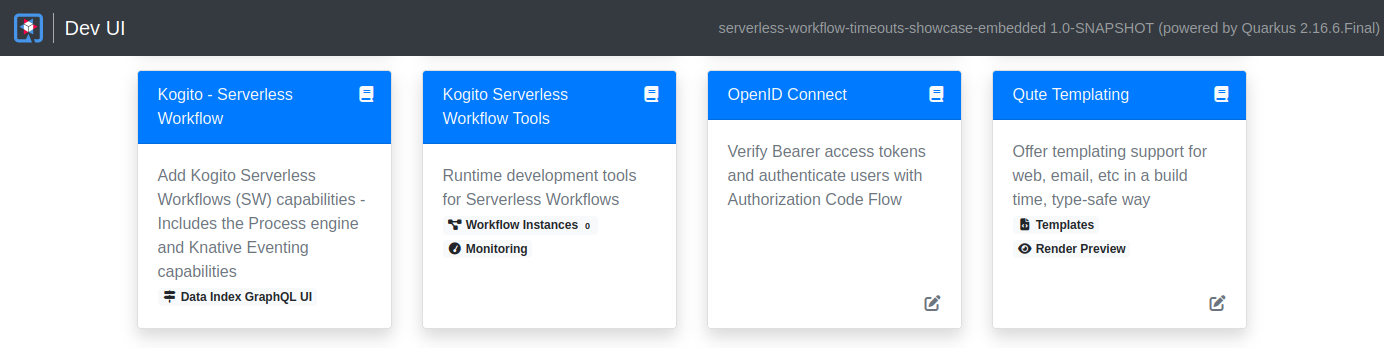
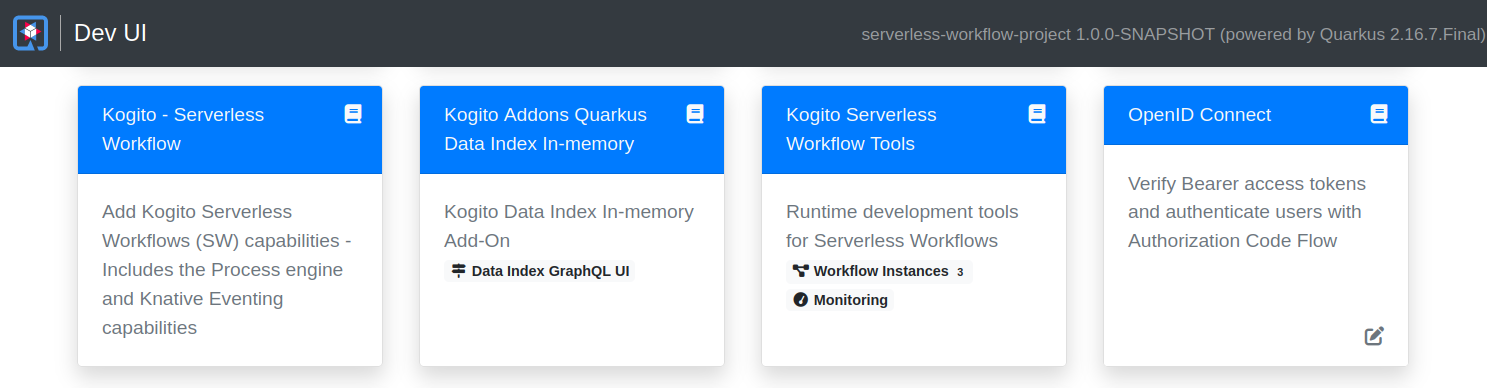
timeouts showcase operator devmode step4

diff --git a/serverless-workflow-examples/serverless-workflow-timeouts-showcase-operator-devmode/README.md b/serverless-workflow-examples/serverless-workflow-timeouts-showcase-operator-devmode/README.md
@@ -8,78 +8,103 @@
 minikube start --cpus 4 --memory 4096 --addons registry --addons metrics-server --insecure-registry "10.0.0.0/24" --insecure-registry "localhost:5000"
 ```
 
-> **NOTE:** If the number of allocated cpus, and memory configurations, don't feet well for your installation you can try to change this numbers.
+> **NOTE:** If the number of allocated cpus and memory configurations, don't feet well for your installation you can try to change this numbers.
 
-### Building the project
+3. Be sure the Kogito Serverless Operator is installed in your minikube according.
 
-Once the minikube environment is running, open a terminal window, go to the serverless-workflow-timeouts-showcase-operator-devmode directory, and execute these commands to be sure the UI generated image is stored in the minikube internal registry. 
+TODO link the SWs guides.
 
-```shell
-eval $(minikube -p minikube docker-env)
+### Deploying the workflows
 
-mvn clean package -Pkubernetes
-```
+Once the minikube environment is running, open a terminal window, go to the `serverless-workflow-timeouts-showcase-operator-devmode` directory, and execute these commands:
 
-### Create the namespace
+#### Create the namespace
 
 ```shell
 # The namespace name is very important to ensure all the services that compose the showcase can interact.
 kubectl create ns timeouts-showcase
 ```
- 
-### Timeouts showcase services deployment
 
-To deploy the example workflows you must execute these commands:
+> **NOTE:** In cases where you need to clean the deployed workflows, to start again, or simply release the 
+> resources on your minikube installation see: [Showcase cleaning](#showcase-cleaning)  
+> 
+
+#### Deploy the workflows
+
+To deploy the showcase workflows you must execute these commands:
 
 ```shell
 kubectl apply -f workflows/callback_state_timeouts_devmode.yaml -n timeouts-showcase
-
-# After executing the command you will see an output like this:
-
-TODO
 ```
 
 ```shell
 kubectl apply -f workflows/event_state_timeouts_devmode.yaml -n timeouts-showcase
-
-# After executing the command you will see an output like this:
-
-TODO
 ```
 
 ```shell
 kubectl apply -f workflows/switch_state_timeouts_devmode.yaml -n timeouts-showcase
-
-# After executing the command you will see an output like this:
-
-TODO
 ```
 
-To get the URL to access the service you can execute this command:
+After executing the commands you should have seen the following ouptputs:
+```shell
+kogitoserverlessworkflow.sw.kogito.kie.org/callbackstatetimeouts created
+kogitoserverlessworkflow.sw.kogito.kie.org/eventstatetimeouts created
+kogitoserverlessworkflow.sw.kogito.kie.org/switchstatetimeouts created
+```
+
+### Accessing the timeouts showcase workflows
+
+To get the URLs to access each workflow you must execute these commands:
 
 ```shell
-kn service list | grep timeouts-showcase-embedded
+minikube service callbackstatetimeouts -n timeouts-showcase  --url
 
-# After executing the command you will see an output like this:
-
-NAME                         URL                                                               LATEST                             AGE     CONDITIONS   READY   REASON
-timeouts-showcase-embedded   http://timeouts-showcase-embedded.default.10.98.134.49.sslip.io   timeouts-showcase-embedded-00001   5m39s   3 OK / 3     True   
+# callback_sate_timeouts url output example
+http://192.168.49.2:32750
 ```
 
-Note that the output above might be different in your installation, and the IP numbers in the URL can be different.
+```shell
+minikube service eventstatetimeouts -n timeouts-showcase  --url
 
-### Executing the `switch_state_timeouts` workflow using curl
+# event_state_timeouts url output example
+http://192.168.49.2:31191
+```
 
-To execute the following commands you must use the http://timeouts-showcase-embedded.default.10.98.134.49.sslip.io corresponding to your installation.
+```shell
+minikube service switchstatetimeouts -n timeouts-showcase  --url
+
+# switch_state_timeouts url output example
+http://192.168.49.2:31917
+```
+
+> **NOTE:** The outputs above might be different in your installation, and the IP numbers and ports can be change even when you delete and redeploy a particular workflow. 
+>
+> To facilitate the workflows executions, you can use the following command to define env variables with the corresponding urls.
+
+
+```shell
+source set-urls.sh
+
+# The execution of the script will produce an output like this:
+
+Setting workflows env variables to:
+CALLBACK_STATE_TIMEOUTS_URL=http://192.168.49.2:31917
+EVENT_STATE_TIMEOUTS_URL=http://192.168.49.2:31191
+SWITCH_STATE_TIMEOUTS_URL=http://192.168.49.2:31191
+```
+
+### Executing the workflows using curl
+
+To execute the `switch_state_timeouts` you must use the corresponding url obtained in the previous steps, or the env variable SWITCH_STATE_TIMEOUTS_URL: 
 
 Execute the following command to create a new `switch_state_timeouts` workflow instance:
 
 ```shell
-curl -X 'POST' \
-  'http://timeouts-showcase-embedded.default.10.98.134.49.sslip.io/switch_state_timeouts' \
+ curl -X 'POST' \
+   "$SWITCH_STATE_TIMEOUTS_URL" \
   -H 'accept: */*' \
   -H 'Content-Type: application/json' \
-  -d '{}'
+  -d '{}' 
 
 # The command will produce an output like this:
 
@@ -88,9 +113,9 @@ curl -X 'POST' \
 
 If you execute the following command during the first 30 seconds after the SW instance was created, you'll get the following results:
 ```shell
-curl -X 'GET' 'http://timeouts-showcase-embedded.default.10.98.134.49.sslip.io/switch_state_timeouts'
+curl -X 'GET' "$SWITCH_STATE_TIMEOUTS_URL"
 
-# The command will produce an output like this, which indicates that the process is waiting for an event to arrive.
+# The command will produce an output like this, which indicates that the workflow instance is active and waiting for an event to arrive.
 
 [{"id":"2e8e1930-9bae-4d60-b364-6fbd61128f51","workflowdata":{}}]
 ```
@@ -102,23 +127,23 @@ result, which means that the SW has timed-out.
 []
 ```
 
-You can execute the following command to create a new `callback_state_timeouts` workflow instance:
+To execute the `callback_state_timeouts` workflow you must execute this command:
 
 ```shell
 curl -X 'POST' \
-  'http://timeouts-showcase-embedded.default.10.98.134.49.sslip.io/callback_state_timeouts' \
+  "$CALLBACK_STATE_TIMEOUTS_URL" \
   -H 'accept: */*' \
   -H 'Content-Type: application/json' \
   -d '{}'
 ```
 
-Similar to `switch_state_timeouts` you can wait for 30+ seconds to check the SW was timed-out.
+Similar to the `switch_state_timeouts` you can wait for 30+ seconds to check the SW was timed-out.
 
 Finally, you can execute the following command to create a new `event_state_timeous` workflow instance:
 
 ```shell
 curl -X 'POST' \
-  'http://timeouts-showcase-embedded.default.10.98.134.49.sslip.io/event_state_timeouts' \
+  "$EVENT_STATE_TIMEOUTS_URL" \
   -H 'accept: */*' \
   -H 'Content-Type: application/json' \
   -d '{
@@ -126,33 +151,77 @@ curl -X 'POST' \
 }'
 ```
 
-You can also verify the timeouts functioning following this procedure:
+You can also verify the timeouts functioning for particular workflow by looking at the log traces:
 ```shell
-kubectl get pod | grep timeouts-showcase-embedded
+kubectl get pods -n timeouts-showcase
 
-# The command above will produce an output like this, where timeouts-showcase-00001-deployment-56dcc74c77-jttv5 
+# The command above will produce an output like this, where you can see the corresponding pod for each workflow. 
 # corresponds to the Pod executing the service.
 
-timeouts-showcase-embedded-00001-deployment-7459776dc8-kndhd   2/2     Running   0          10m
+NAME                                     READY   STATUS    RESTARTS   AGE
+callbackstatetimeouts-58c9f5d8fb-xgnmm   1/1     Running   0          17m
+eventstatetimeouts-8564767bd5-c7zqc      1/1     Running   0          18m
+switchstatetimeouts-8775d4c69-7pjvc      1/1     Running   0          17m
+
 ```
 
-Finally, you can execute the following command to see the logs corresponding to that Pod. And see the log traces
-corresponding to the created and timed-out serverless workflow instance.
+Finally, you can execute the following command to see the logs corresponding to any of these Pods. And see the log traces
+corresponding to the created and timed-out workflow instance.
 
 ```shell
-kubectl logs timeouts-showcase-embedded-00001-deployment-7459776dc8-kndhd
+kubectl logs switchstatetimeouts-8775d4c69-7pjvc -n timeouts-showcase
 
 # The command will produce an output like this, where you'll find the log traces produced by the timeouts showcase workflow instances.
 
-switch-state-timeouts: 2e8e1930-9bae-4d60-b364-6fbd61128f51 has started.
-switch-state-timeouts: 2e8e1930-9bae-4d60-b364-6fbd61128f51 has finalized. No decision was made. The switch state did not receive any event, and the timeout has overdue.
+switchstatetimeouts: 2e8e1930-9bae-4d60-b364-6fbd61128f51 has started.
+switchstatetimeouts: 2e8e1930-9bae-4d60-b364-6fbd61128f51 has finalized. No decision was made. The switch state did not receive any event, and the timeout has overdue.
 ```
+
+### Operator dev mode tooling
+When you work with the Kogito Serverless Operator dev mode, every time you deploy a workflow, a set of tools will be automatically provisioned as part of the deployment procedure.
+These tools are designed to help you to test and work with your workflow when you are in the development phase of your project.
+
+> **NOTE:** Considering that the Operator deploys each workflow independently, to access the tooling you must use the particular url for the workflow you wants to access.   
+>
+
+#### Dev UI Main View
+
+For the `switch-state-timeouts`, the Quarkus Dev UI will be available at http://192.168.49.2:31917q/dev/ with the Serverless Workflow Tools.
+
+![](docs/DevUIGeneral.png)
+
+For more information about how to get the url for each workflow when you are working with minikube  See: [Accessing the timeouts showcase services](#accessing-the-timeouts-showcase-services)
+
+#### Dev UI Serverless Workflow Tools View
+
+![](docs/DevUIWorkflows.png)
+
 
 ### Timeouts showcase UI
 The timeouts showcase provides a simple UI that can be used to create workflow instances, and also send them the expected events.
 To execute the UI you must:
-1) Follow the steps described at the beginning of this document to get the timeouts showcase running
-2) Execute the following command to determine the URL of the timeouts showcase in your local environment:
+1) Follow the steps described at the beginning of this document to deploy the workflows.
+2) Execute the following commands to build and deploy the UI on the same namespace as your workflows.
+
+> **NOTE:** Remember that these last build steps, as well as the java code you see in this project, are only to provide 
+> the timeouts showcase UI. And, as you have seen in the previous steps, when you work with the kogito Serverless Operator dev mode
+> profile, the only that you need is the yaml files that defines the KogitoServerlessWorkflow resources. (see the `workflows` directory)
+>  
+> We recommend that you test the different workflows and actions one by one, at the same time that you query the timeouts showcase logs to verify the traces generated by the workflows.
+> Additionally, you can use the Kogito Development Mode Tooling to query and see the information that is generated for each workflow, etc.
+> And remember, even when the UI provides centralized access to your workflows, each workflow still runs isolated on its own container, and thus, is accessed with a different url.
+> See: [Accessing the timeouts showcase services](#accessing-the-timeouts-showcase-services)
+>
+
+Execute these commands to be sure the UI generated image is stored in the minikube internal registry:
+
+```shell
+eval $(minikube -p minikube docker-env)
+```
+```shell
+mvn clean package -Pkubernetes
+```
+
 
 ```shell
 kn service list 
@@ -192,28 +261,9 @@ In case of the url above: http://timeouts-showcase-embedded.default.10.98.134.49
 ![](docs/GraphqlUI.png)
 
 ### Showcase cleaning
-To remove the installed service from your minikube installation you can use the following command:
+To remove the installed workflows and UI from your minikube installation you can use the following command:
 
 ```shell
-kn service delete timeouts-showcase-embedded
+kubectl delete namespace timeouts-showcase
 ```
-
-### Compile and Run in Local Dev Mode
-
-To run the example in the Quarkus dev mode you must execute this command:
-
-```shell
-mvn clean package quarkus:dev
-```
-After this, the application will be available at http://localhost:8080
-
-Additionally, the Quarkus Dev UI will be available at http://localhost:8080/q/dev/ with the Serverless Workflow Tools.
-
-#### Dev UI Main View
-
-![](docs/DevUIGeneral.png)
-
-#### Dev UI Serverless Workflow Tools View
-
-![](docs/DevUIWorkflows.png)
 
